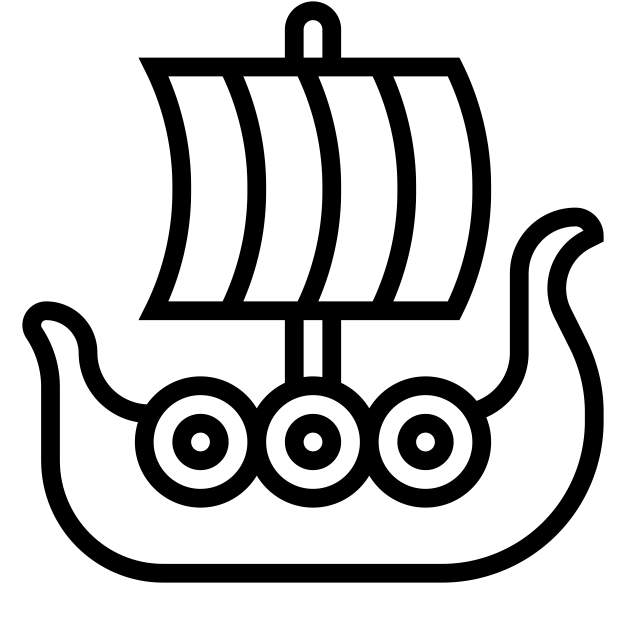
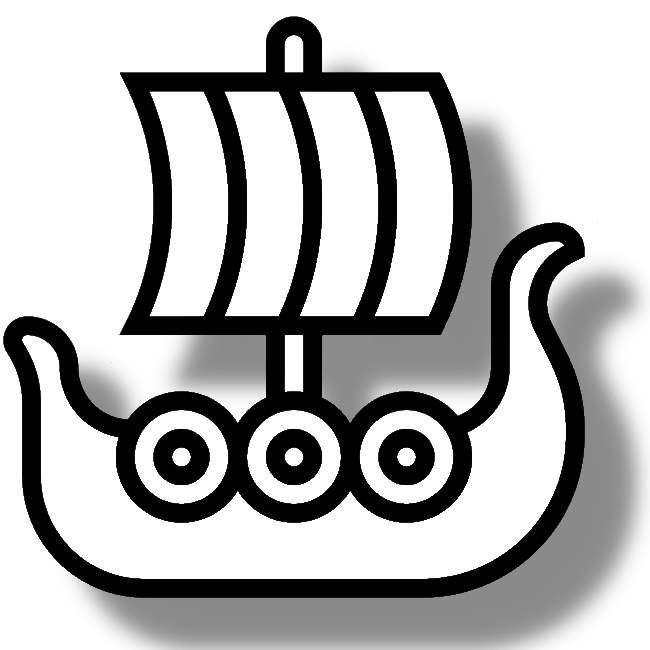
Adjust style for top and middle (partially completed) to adhere to lower level tactile design

diff --git a/src/components/TopBar.css b/src/components/TopBar.css
@@ -27,9 +27,12 @@
 #top-banner #announcement {
   background: rgb(49, 66, 77);
   color: rgb(212, 250, 250);
+  box-shadow: 0px 5px 3px 0px rgba(0, 0, 0, 0.3);
   width: 100%;
   font-size: 12px;
   min-height: 25px;
+  border-bottom: outset 1px rgba(0, 0, 0, 0.5);
+  border-right: outset 1px rgba(0, 0, 0, 0.5);
 
   display: flex;
   align-items: center;
@@ -71,6 +74,13 @@
   cursor: pointer;
 }
 
+#top-banner .menu-top .title,
+#top-banner #icon-and-title {
+  text-shadow: -1px -1px 0px rgba(255, 255, 255, 0.8),
+    5px 5px 2px rgba(0, 0, 0, 0.2);
+  font-family: "NorseBold";
+}
+
 @media screen and (max-width: 749px) {
   #top-banner #categories {
     display: none;
@@ -80,7 +90,7 @@
     left: 5px;
     background-color: rgb(220, 244, 252);
     border: inset black 2px;
-    box-shadow: rgb(38, 57, 77) 0px 20px 30px -10px;
+    box-shadow: rgb(0, 0, 0, 0.5) 15px 15px 15px 0px;
     z-index: 100;
     min-width: 300px;
     padding: 10px;
@@ -109,7 +119,7 @@
   }
 
   #top-banner .menu-top .title {
-    font-size: 20px;
+    font-size: 25px;
     font-family: NorseBold;
   }
 
@@ -142,20 +152,27 @@
 }
 
 #top-banner #categories a {
-  color: rgb(9, 106, 170);
-  clip-path: polygon(0 0, 100% 20%, 100% 100%, 0 80%);
+  color: rgb(6, 68, 109);
+  background: rgb(245, 245, 245);
+  /*clip-path: polygon(0 0, 100% 20%, 100% 100%, 0 80%);*/
   transition: all 0.5s;
+  border-radius: 255px 15px 225px 15px / 15px 225px 15px 255px;
+  box-shadow: 10px 9px 8px -6px rgba(0, 0, 0, 0.5);
+  border: solid 2px #41403e;
+  padding: 0px 2px;
 }
 
 #top-banner #categories a:hover,
 #top-banner #categories .active-link {
-  color: rgb(6, 65, 105);
   background: #f4d35e;
+  box-shadow: 1px 3px 8px -6px rgba(0, 0, 0, 0.5);
+}
+
+#top-banner #categories a:active {
 }
 
 #top-banner #icon-and-title {
   justify-content: center;
-  font-family: "NorseBold";
   font-size: 30px;
 }
 
@@ -168,11 +185,23 @@
 
 #top-banner #boat-cart {
   height: 40px;
+  width: 40px;
+  min-width: 0px;
   cursor: pointer;
+  background-image: var(--boat);
+  background-size: contain;
+  background-repeat: no-repeat;
+}
+
+#top-banner #boat-cart:hover {
+  background-image: var(--boat-hover);
+}
+
+#top-banner #boat-cart:active {
+  background-image: var(--boat-active);
 }
 
 #top-banner #count-cart {
-  border: 1px solid rgb(21, 17, 248);
   border-radius: 20px;
   display: flex;
   justify-content: center;
@@ -180,4 +209,19 @@
   height: 25px;
   width: 25px;
   cursor: pointer;
+  font-family: "NorseBold";
+  font-size: 20px;
+  background: rgb(247, 247, 247);
+  box-shadow: 4px 4px 4px 0px rgba(0, 0, 0, 0.5);
+  transition: all 0.2s;
+}
+
+#top-banner #count-cart:hover {
+  box-shadow: 2px 2px 2px 0px rgba(0, 0, 0, 0.5);
+  background: #f4d35e;
+  transition: all 0.4s;
+}
+
+#top-banner #count-cart:active {
+  box-shadow: 1px 1px 1px 0px rgba(0, 0, 0, 0.5);
 }

diff --git a/src/components/TopBar.jsx b/src/components/TopBar.jsx
@@ -1,5 +1,7 @@
 import "./TopBar.css";
 import boat from "../assets/boatB.png";
+import boatHover from "../assets/boatBH.png";
+import boatActive from "../assets/boatBA.png";
 import menuicon from "../assets/menu.svg";
 import ShoppingCart from "./ShoppingCart";
 import { NavLink } from "react-router-dom";
@@ -9,7 +11,7 @@ import {
   expandCategoryMenu,
   shelfExpansion,
 } from "../UtilityFunctions";
-import { useState } from "react";
+import { useState, useEffect } from "react";
 
 export default function TopBar({
   cart,
@@ -18,12 +20,20 @@ export default function TopBar({
   setFloatingItems,
   floatingItemCount,
 }) {
-  const [cartVis, setCartVis] = useState(false);
+  //force preloading of images
+  useEffect(() => {
+    const images = [boat, boatHover, boatActive];
+    images.forEach((src) => {
+      const img = new Image();
+      img.src = src;
+    });
+  }, []);
 
+  const [cartVis, setCartVis] = useState(false);
   const shelfCategories = ["Black", "Green", "Oolong", "Teaware"];
 
   return (
-    <div id="top-banner">
+    <div id="top-banner" className="tl-shadow">
       <div id="announcement">Serving Tea to Taste Berserkers since 972</div>
       <nav>
         <div id="categories-small">
@@ -58,10 +68,13 @@ export default function TopBar({
         </div>
         <div id="icon-and-title">VIKING TEA</div>
         <div id="cart">
-          <img
+          <div
             id="boat-cart"
-            alt="shopping-cart-button"
-            src={boat}
+            style={{
+              "--boat": `url(${boat})`,
+              "--boat-hover": `url(${boatHover})`,
+              "--boat-active": `url(${boatActive})`,
+            }}
             onClick={() => setCartVis(true)}
           />
           <span id="count-cart" onClick={() => setCartVis(true)}>

diff --git a/src/App.css b/src/App.css
@@ -67,6 +67,10 @@ h1 {
   line-height: 1.1;
 }
 
+.tl-shadow {
+  box-shadow: 0 8px 20px rgba(0, 0, 0, 0.5);
+}
+
 .item-count-adjust {
   height: 40px;
   border: 1px solid black;
@@ -102,16 +106,21 @@ h1 {
   justify-content: center;
   align-items: center;
   cursor: pointer;
-  background: rgb(221, 221, 221);
+  background: rgb(248, 248, 248);
   color: rgb(114, 32, 32);
+  box-shadow: 4px 4px 4px 0px rgba(0, 0, 0, 0.5);
+  transition: all 0.2s;
 }
 
 .x-btn:hover {
   background: rgb(230, 230, 230);
   color: rgb(131, 37, 37);
+  box-shadow: 2px 2px 2px 0px rgba(0, 0, 0, 0.5);
+  transition: all 0.4s;
 }
 
 .x-btn:active {
   background: rgb(202, 201, 201);
   color: rgb(109, 31, 31);
+  box-shadow: 1px 1px 1px 0px rgba(0, 0, 0, 0.5);
 }

diff --git a/src/components/MiddlePanels.css b/src/components/MiddlePanels.css
@@ -65,6 +65,7 @@
   position: absolute;
   right: 0px;
   box-sizing: border-box;
+  box-shadow: none;
 }
 
 #middle .tea-shelf a {
@@ -106,10 +107,23 @@
   align-items: center;
   border: 1px solid black;
   cursor: pointer;
+
+  transition: box-shadow 0s;
 }
 
 #middle .tea-shelf .tea-icon:hover {
   box-shadow: inset 0 4px 10px rgba(0, 0, 0, 0.3);
+  transition-duration: 0s;
+}
+
+#middle .tea-shelf .tea-icon:active {
+  box-shadow: inset 0 4px 10px rgba(0, 0, 0, 0.6);
+  transition-duration: 0.1s;
+}
+
+/* slow return after click or hover ends */
+#middle .tea-shelf .tea-icon:not(:active) {
+  transition-duration: 0.3s;
 }
 
 #middle .tea-shelf img {

diff --git a/src/components/BottomBar.css b/src/components/BottomBar.css
@@ -10,7 +10,6 @@
   backdrop-filter: blur(10px); /* frosted glass */
   -webkit-backdrop-filter: blur(10px);
   box-sizing: border-box;
-  box-shadow: 0 8px 20px rgba(0, 0, 0, 0.3);
 
   display: flex;
   align-items: center;
@@ -42,6 +41,7 @@
 .single-wave img {
   position: absolute;
   left: 0;
+  filter: drop-shadow(0px -4px 3px rgba(0, 0, 0, 0.5));
 }
 
 @media screen and (min-width: 551px) {

diff --git a/src/components/ShoppingCart.css b/src/components/ShoppingCart.css
@@ -35,10 +35,16 @@
   align-items: center;
   padding: 5px 10px;
   margin-bottom: 0px;
-  font-family: "Roboto";
   font-size: 20px;
   background-color: rgb(220, 244, 252);
   height: 30px;
+}
+
+#sc-titlebar #sc-title {
+  text-shadow: -1px -1px 0px rgba(255, 255, 255, 0.8),
+    5px 5px 2px rgba(0, 0, 0, 0.2);
+  font-family: "NorseBold";
+  font-size: 25px;
 }
 
 #side-cart hr {

diff --git a/src/components/BottomBar.jsx b/src/components/BottomBar.jsx
@@ -80,7 +80,7 @@ export default function BottomBar({ floatingItems, setFloatingItems, cart }) {
   else if (currentCount < 16) boatImg = BoatWDogVLarge;
 
   return (
-    <div id="bottom">
+    <div id="bottom" className="tl-shadow">
       <div className="waves-viewport">
         <Wave image={Wave4} speed={2} />
         <Wave image={Wave3} speed={4} />

diff --git a/src/components/MiddlePanels.jsx b/src/components/MiddlePanels.jsx
@@ -40,7 +40,10 @@ export default function MiddlePanels() {
   }
 
   return (
-    <div id="middle" className={useErrorShelf ? "has-error" : ""}>
+    <div
+      id="middle"
+      className={`tl-shadow${useErrorShelf ? " has-error" : ""}`}
+    >
       {useErrorShelf ? (
         <img id="error-bg" src={BrokenShip} />
       ) : (
